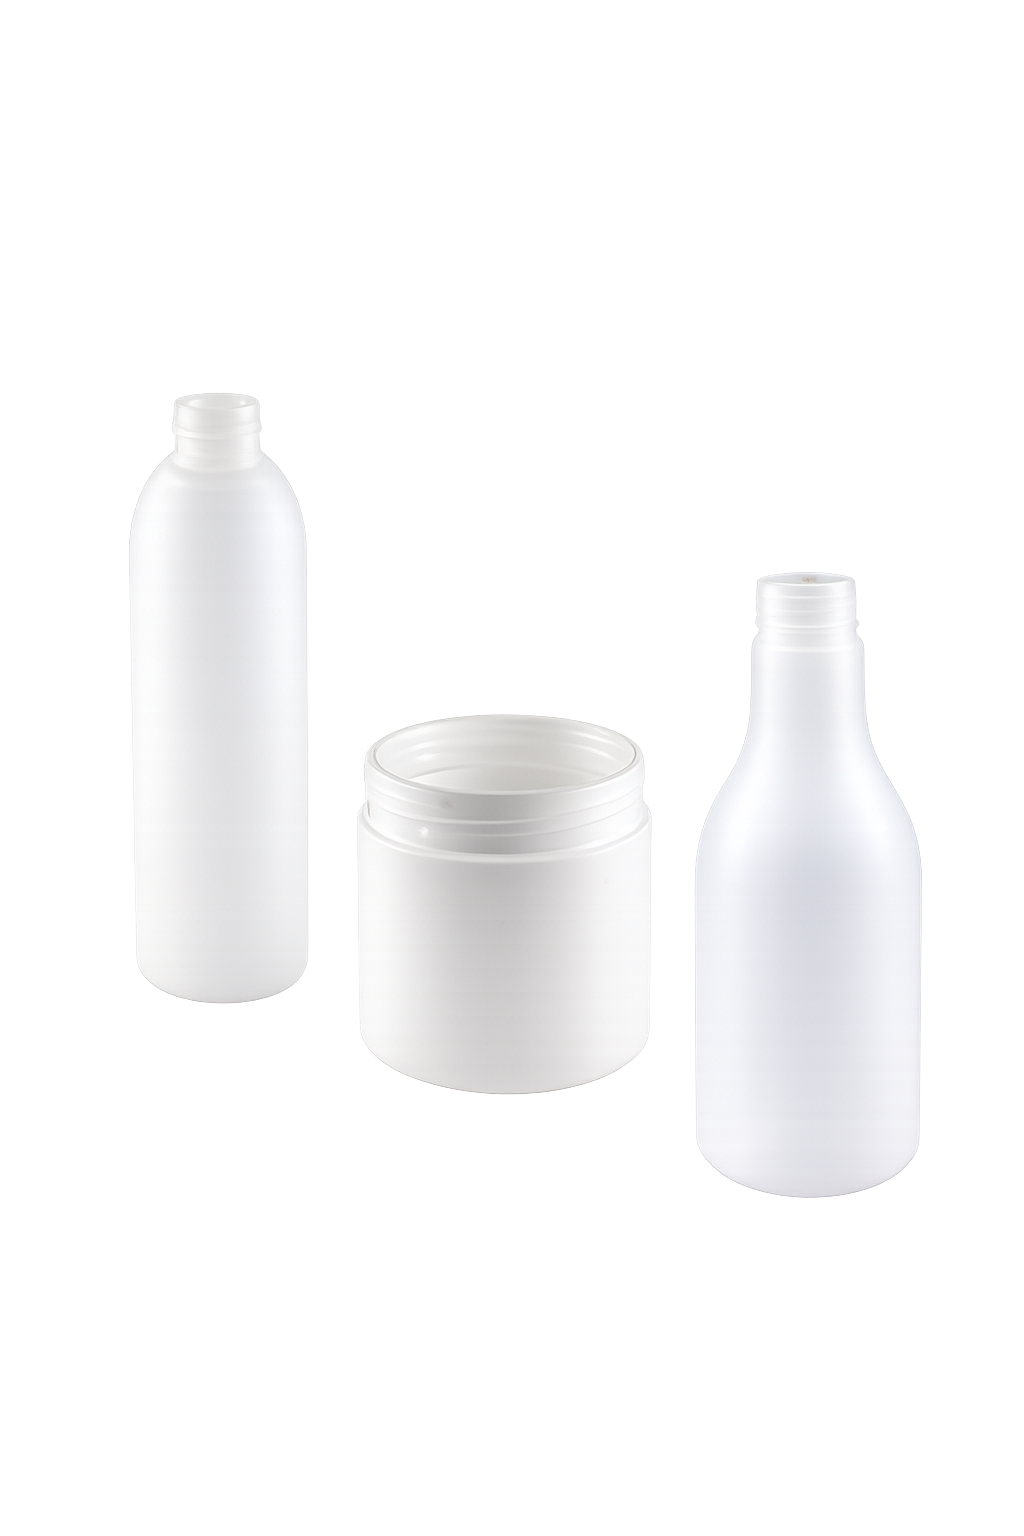
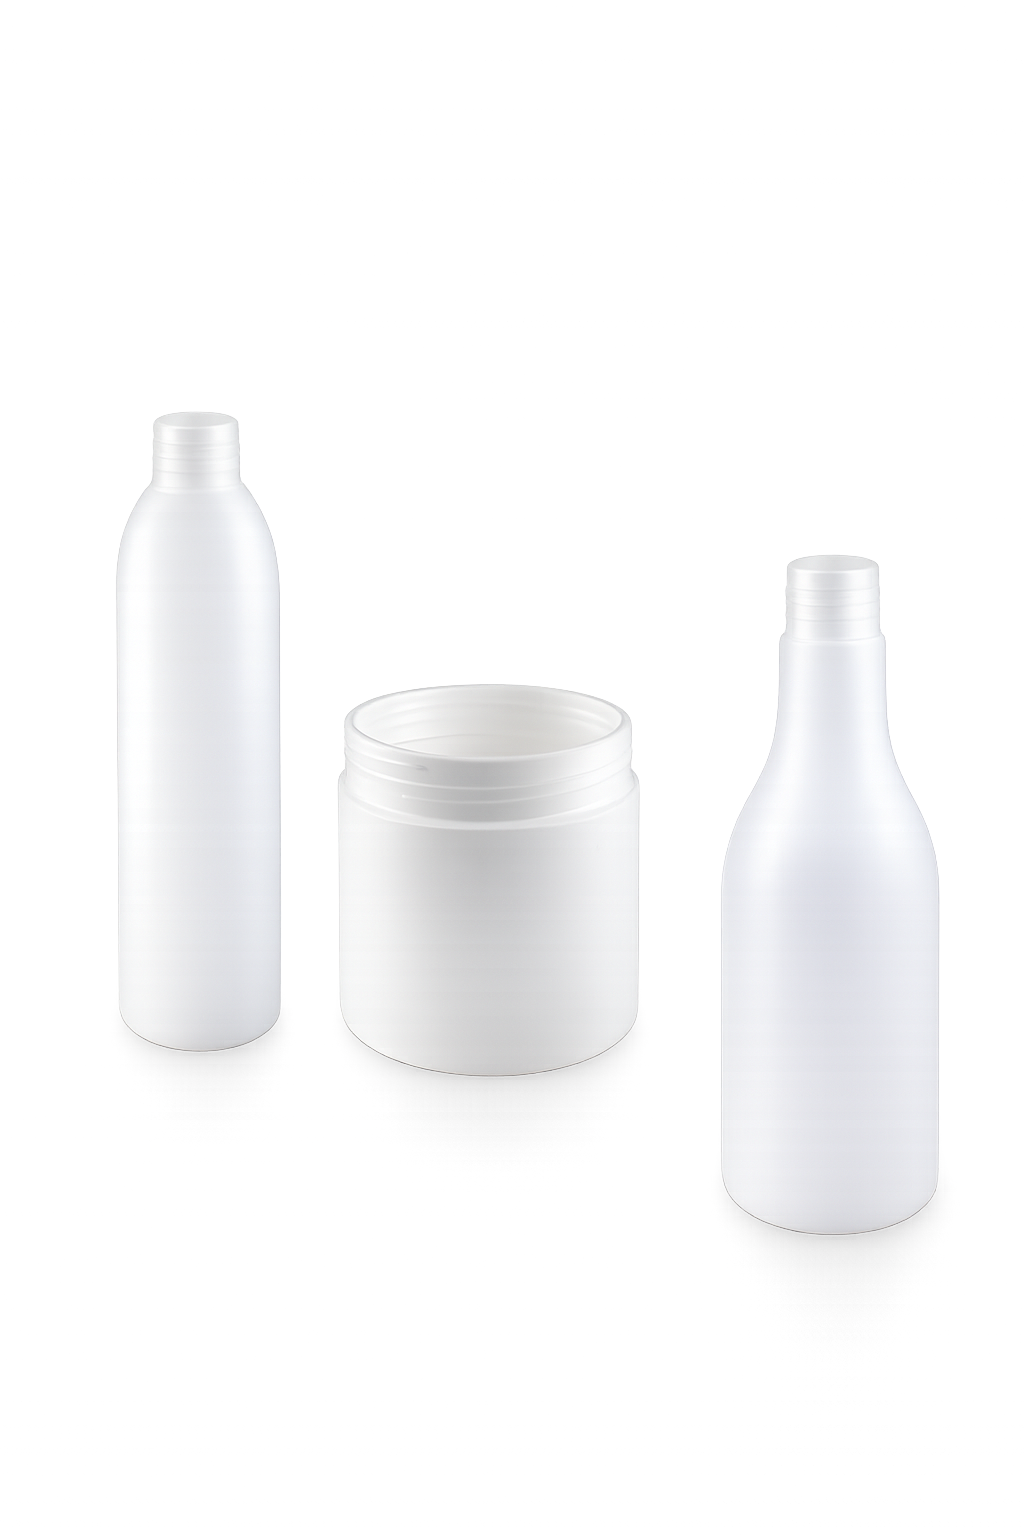
feat: layout improvements and updated assets

diff --git a/components/Institutional.tsx b/components/Institutional.tsx
@@ -9,8 +9,8 @@ export default function Institutional() {
     // Fotos da empresa (você pode substituir por fotos reais)
     const companyPhotos = [
         { url: getImagePath('/images/fabrica-1.jpg'), alt: 'Fábrica Plásticos GT - Vista Externa' },
-        { url: getImagePath('/images/fabrica-2.jpg'), alt: 'Linha de Produção' },
-        { url: getImagePath('/images/fabrica-3.jpg'), alt: 'Ferramentaria' },
+        { url: getImagePath('/images/fabrica-2.jpg'), alt: 'Ferramentaria' },
+        { url: getImagePath('/images/fabrica-3.jpg'), alt: 'Linha de Produção' },
         { url: getImagePath('/images/fabrica-4.jpg'), alt: 'Equipe Técnica' },
     ];
 
@@ -165,31 +165,86 @@ export default function Institutional() {
                 </div>
             </div>
 
-            {/* Timeline - HORIZONTAL */}
-            <div className="max-w-5xl mx-auto">
-                <h3 className="text-3xl font-bold text-gray-900 mb-8 text-center font-display">
-                    Nossa <span className="gradient-text">Trajetória</span>
-                </h3>
+            {/* Timeline - EDITORIAL NARRATIVE */}
+            <div className="max-w-6xl mx-auto py-20 relative">
+                <div className="text-center mb-16">
+                    <h3 className="text-4xl font-bold text-gray-900 mb-4 font-display">
+                        Nossa <span className="gradient-text">Jornada</span>
+                    </h3>
+                    <p className="text-gray-600 max-w-2xl mx-auto">
+                        Uma história moldada por desafios, inovação e o compromisso inabalável com a excelência técnica.
+                    </p>
+                </div>
 
-                <div className="grid grid-cols-1 md:grid-cols-3 gap-6">
-                    {timeline.map((item, index) => (
-                        <div
-                            key={index}
-                            className="glass rounded-2xl p-8 text-center hover:shadow-xl transition-all duration-300 hover:-translate-y-2 group"
-                        >
-                            <div className="w-20 h-20 bg-gradient-to-br from-primary-500 to-primary-600 rounded-full flex items-center justify-center mx-auto mb-4 group-hover:scale-110 transition-transform duration-300">
-                                <span className="text-3xl font-bold text-white font-display">
-                                    {item.year}
-                                </span>
+                {/* Connecting Line (Desktop) */}
+                <div className="hidden md:block absolute top-[60%] left-0 w-full h-0.5 bg-gradient-to-r from-transparent via-primary-300 to-transparent z-0"></div>
+
+                <div className="grid grid-cols-1 md:grid-cols-3 gap-12 relative z-10">
+                    {/* 2013 - Fundação */}
+                    <div className="group">
+                        <div className="relative mb-8 overflow-hidden rounded-2xl shadow-lg aspect-video">
+                            <img
+                                src={getImagePath('/images/fabrica-1.jpg')}
+                                alt="Fundação 2013"
+                                className="w-full h-full object-cover group-hover:scale-110 transition-transform duration-700 grayscale group-hover:grayscale-0"
+                            />
+                            <div className="absolute inset-0 bg-gradient-to-t from-black/60 to-transparent"></div>
+                            <div className="absolute bottom-4 left-4">
+                                <span className="text-4xl font-bold text-white font-display">2013</span>
                             </div>
-                            <h4 className="text-2xl font-bold text-gray-900 mb-3 group-hover:text-primary-600 transition-colors duration-300">
-                                {item.title}
-                            </h4>
-                            <p className="text-gray-600">
-                                {item.description}
+                        </div>
+                        <div className="bg-white p-6 rounded-2xl shadow-sm border border-gray-100 group-hover:shadow-xl transition-all duration-300">
+                            <h4 className="text-xl font-bold text-gray-900 mb-3 group-hover:text-primary-600">O Início de um Sonho</h4>
+                            <p className="text-gray-600 text-sm leading-relaxed">
+                                Fundada em São Paulo, a Plásticos GT iniciou suas atividades com a visão de oferecer embalagens
+                                superiores em PEAD e PP, focando inicialmente no mercado regional de cosméticos.
                             </p>
                         </div>
-                    ))}
+                    </div>
+
+                    {/* 2018 - Expansão */}
+                    <div className="group md:mt-12">
+                        <div className="relative mb-8 overflow-hidden rounded-2xl shadow-lg aspect-video">
+                            <img
+                                src={getImagePath('/images/fabrica-3.jpg')}
+                                alt="Expansão 2018"
+                                className="w-full h-full object-cover group-hover:scale-110 transition-transform duration-700"
+                            />
+                            <div className="absolute inset-0 bg-gradient-to-t from-black/60 to-transparent"></div>
+                            <div className="absolute bottom-4 left-4">
+                                <span className="text-4xl font-bold text-white font-display">2018</span>
+                            </div>
+                        </div>
+                        <div className="bg-white p-6 rounded-2xl shadow-sm border border-gray-100 group-hover:shadow-xl transition-all duration-300">
+                            <h4 className="text-xl font-bold text-gray-900 mb-3 group-hover:text-primary-600">Salto Tecnológico</h4>
+                            <p className="text-gray-600 text-sm leading-relaxed">
+                                Implementamos nossa ferramentaria própria e modernizamos o parque industrial com sopradoras de alta precisão,
+                                permitindo a criação de frascos exclusivos com design complexo.
+                            </p>
+                        </div>
+                    </div>
+
+                    {/* 2024 - Futuro */}
+                    <div className="group">
+                        <div className="relative mb-8 overflow-hidden rounded-2xl shadow-lg aspect-video">
+                            <img
+                                src={getImagePath('/images/fabrica-2.jpg')}
+                                alt="Liderança 2024"
+                                className="w-full h-full object-cover group-hover:scale-110 transition-transform duration-700"
+                            />
+                            <div className="absolute inset-0 bg-gradient-to-t from-black/60 to-transparent"></div>
+                            <div className="absolute bottom-4 left-4">
+                                <span className="text-4xl font-bold text-white font-display">2024</span>
+                            </div>
+                        </div>
+                        <div className="bg-white p-6 rounded-2xl shadow-sm border border-gray-100 group-hover:shadow-xl transition-all duration-300">
+                            <h4 className="text-xl font-bold text-gray-900 mb-3 group-hover:text-primary-600">Moldando o Futuro</h4>
+                            <p className="text-gray-600 text-sm leading-relaxed">
+                                Referência nacional em embalagens customizadas, servindo grandes indústrias com soluções sustentáveis,
+                                acabamentos premium e agilidade produtiva incomparável.
+                            </p>
+                        </div>
+                    </div>
                 </div>
             </div>
         </section>

diff --git a/components/Catalog.tsx b/components/Catalog.tsx
@@ -104,7 +104,7 @@ const products: Product[] = [
         category: 'Frascos',
         material: 'PEAD',
         volumes: ['200ml'],
-        lid: 'Gargalo 24/415',
+        lid: 'Gargalo 24/410',
         colors: ['A combinar'],
         image: '/products/frasco 200ml.png',
         description: 'Frasco de 200ml, versátil.',
@@ -115,14 +115,14 @@ const products: Product[] = [
         category: 'Frascos',
         material: 'PEAD',
         volumes: ['250ml'],
-        lid: 'Gargalo 24/415',
+        lid: 'Gargalo 24/410',
         colors: ['A combinar'],
         image: '/products/frasco 250.png',
         description: 'Frasco de 250ml com design elegante.',
     },
     {
         id: 17,
-        name: 'Cilindro 355 ml',
+        name: 'Frasco Cilindro 355 ml',
         category: 'Frascos',
         material: 'PEAD',
         volumes: ['355ml'],
@@ -133,40 +133,40 @@ const products: Product[] = [
     },
     {
         id: 26,
-        name: 'Cilindro 300 ml',
+        name: 'Frasco Cilindro 300 ml',
         category: 'Frascos',
         material: 'PEAD',
         volumes: ['300ml'],
-        lid: 'Gargalo 18',
+        lid: '',
         colors: ['A combinar'],
         image: '/products/cilindro 300ml.png',
         description: 'Frasco cilíndrico de 300ml.',
     },
     {
         id: 18,
-        name: 'Girafa 70 ml',
+        name: 'Frasco Girafa 70 ml',
         category: 'Frascos',
         material: 'PEAD',
         volumes: ['70ml'],
-        lid: 'Gargalo 24/410',
+        lid: 'Gargalo 18',
         colors: ['A combinar'],
         image: '/products/girafa 70ml.png',
         description: 'Modelo Girafa compacto de 70ml.',
     },
     {
         id: 19,
-        name: 'Girafa 500 ml',
+        name: 'Frasco Girafa 500 ml',
         category: 'Frascos',
         material: 'PEAD',
         volumes: ['500ml'],
         lid: 'Gargalo 28/410',
         colors: ['A combinar'],
-        image: '/products/girafa 500ml.png',
+        image: '/products/frasco-500ml-girafa.jpg',
         description: 'Modelo Girafa de 500ml.',
     },
     {
         id: 20,
-        name: 'Girafa 1 Litro',
+        name: 'Frasco Girafa 1 Litro',
         category: 'Frascos',
         material: 'PEAD',
         volumes: ['1L'],
@@ -177,7 +177,7 @@ const products: Product[] = [
     },
     {
         id: 21,
-        name: 'Shampoo 500 ml',
+        name: 'Frasco Oval 500 ml',
         category: 'Frascos',
         material: 'PEAD',
         volumes: ['500ml'],
@@ -238,7 +238,7 @@ const products: Product[] = [
         id: 11,
         name: 'Bola de Sorvete 60gr',
         category: 'Projetos Especiais',
-        material: 'PP',
+        material: 'PEAD',
         volumes: ['60g'],
         lid: 'Encaixe',
         colors: ['A combinar'],

diff --git a/components/Footer.tsx b/components/Footer.tsx
@@ -2,6 +2,7 @@
 
 import Link from 'next/link';
 import Image from 'next/image';
+import { getImagePath } from '@/lib/utils';
 
 export default function Footer() {
     const currentYear = new Date().getFullYear();
@@ -42,7 +43,7 @@ export default function Footer() {
                         <div className="mb-6">
                             <div className="relative w-48 h-14">
                                 <Image
-                                    src="/logo.png"
+                                    src={getImagePath('/logo-white.png')}
                                     alt="Plásticos GT - Qualidade que molda o futuro"
                                     fill
                                     className="object-contain object-left"
@@ -51,7 +52,7 @@ export default function Footer() {
                         </div>
 
                         <p className="text-gray-400 mb-6">
-                            Há mais de 25 anos fornecendo soluções em embalagens plásticas de alta qualidade,
+                            Desde 2013 fornecendo soluções em embalagens plásticas de alta qualidade,
                             com ferramentaria própria e projetos customizados para diversos segmentos industriais.
                         </p>
 

diff --git a/components/ProjectConfigurator.tsx b/components/ProjectConfigurator.tsx
@@ -37,8 +37,8 @@ export default function ProjectConfigurator() {
         { id: 'custom', name: 'Projeto Customizado', icon: '⚙', description: 'Desenvolvimento exclusivo' },
     ];
 
-    const capacities = ['50ml', '100ml', '250ml', '500ml', '1L', '2L', '5L', 'Outro'];
-    const colors = ['Branco', 'Transparente', 'Âmbar', 'Azul', 'Verde', 'Rosa', 'Preto', 'Colorido Personalizado'];
+    const capacities = ['70ml', '100ml', '250ml', '500ml', '1L', 'Outro'];
+    const colors = ['Branco', 'Transparente', 'Azul', 'Verde', 'Rosa', 'Preto', 'Colorido Personalizado'];
     const quantities = ['500 - 1.000', '1.000 - 5.000', '5.000 - 10.000', '10.000 - 50.000', 'Acima de 50.000'];
 
     const handleNext = () => {

diff --git a/components/Differentials.tsx b/components/Differentials.tsx
@@ -192,7 +192,7 @@ export default function Differentials() {
                         </a>
                         <a
                             href="#configurador"
-                            className="btn-secondary border-white text-white hover:bg-white/10 w-full sm:w-auto"
+                            className="px-8 py-4 rounded-lg font-semibold border-2 border-white text-white transition-all duration-300 hover:bg-white/10 hover:shadow-lg hover:scale-105 active:scale-95 w-full sm:w-auto text-center"
                         >
                             Configurar Projeto
                         </a>
